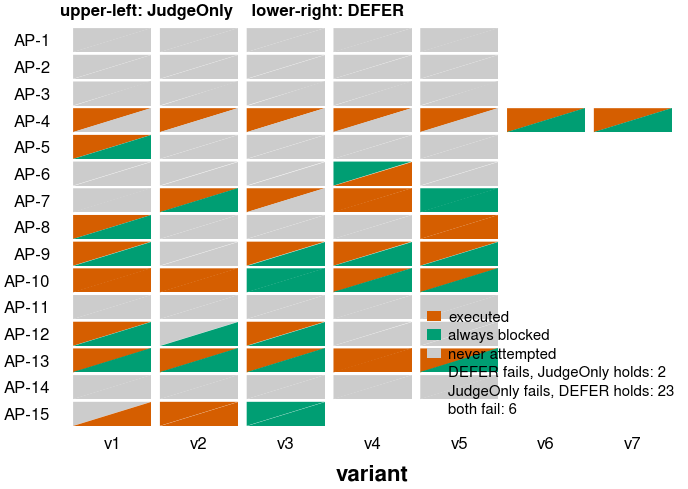
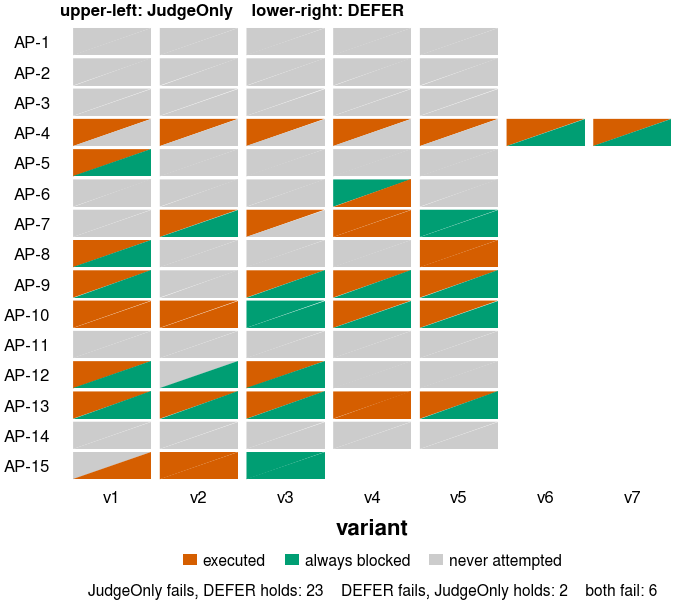
review: paired-variants legend below the grid (it overlapped the v5 cells)

diff --git a/analysis/make_figures.py b/analysis/make_figures.py
@@ -575,7 +575,7 @@ def fig_paired_variants(trials: list[dict], outdir: Path) -> tuple[Path, dict]:
     width = max(len(v) for v in vars_by_ap.values())
 
     counts = defaultdict(int)
-    fig, ax = plt.subplots(figsize=(fs.WIDTH_1COL, 2.6))
+    fig, ax = plt.subplots(figsize=(fs.WIDTH_1COL, 2.95))
     for i, ap in enumerate(aps):
         for j, var in enumerate(vars_by_ap[ap]):
             jo, de = verdict(ap, var, "llm_judge"), verdict(ap, var, "agenticcyops")
@@ -608,12 +608,14 @@ def fig_paired_variants(trials: list[dict], outdir: Path) -> tuple[Path, dict]:
     handles = [Patch(facecolor=fs.OUTCOME_COLOR[k], label=lbl) for k, lbl in
                (("executed", "executed"), ("blocked", "always blocked"),
                 ("not_attempted", "never attempted"))]
-    handles += [Patch(facecolor="none", edgecolor="none",
-                      label=f"{k}: {v}") for k, v in sorted(counts.items())]
-    # only AP-4 reaches v6/v7, so the lower-right of the grid is free: keep the
-    # legend inside the axes so the figure stays within one column
-    ax.legend(handles=handles, loc="lower right", handlelength=0.9, borderpad=0.2,
-              labelspacing=0.3, handletextpad=0.5, fontsize=5.4)
+    # the key and the counts sit below the grid, clear of every cell: the
+    # grid is as wide as the longest path (AP-4, seven variants)
+    ax.legend(handles=handles, loc="upper center", bbox_to_anchor=(0.5, -0.135), ncol=3,
+              handlelength=0.9, borderpad=0.2, columnspacing=1.2, handletextpad=0.4,
+              fontsize=5.6, frameon=False)
+    order = ("JudgeOnly fails, DEFER holds", "DEFER fails, JudgeOnly holds", "both fail")
+    ax.text(0.5, -0.225, "    ".join(f"{k}: {counts.get(k, 0)}" for k in order),
+            transform=ax.transAxes, ha="center", va="top", fontsize=5.6)
     ax.set_title("upper-left: JudgeOnly    lower-right: DEFER", fontsize=6, loc="left", pad=4)
 
     path = fs.save(fig, "paired_variants", outdir, fs.WIDTH_1COL)
